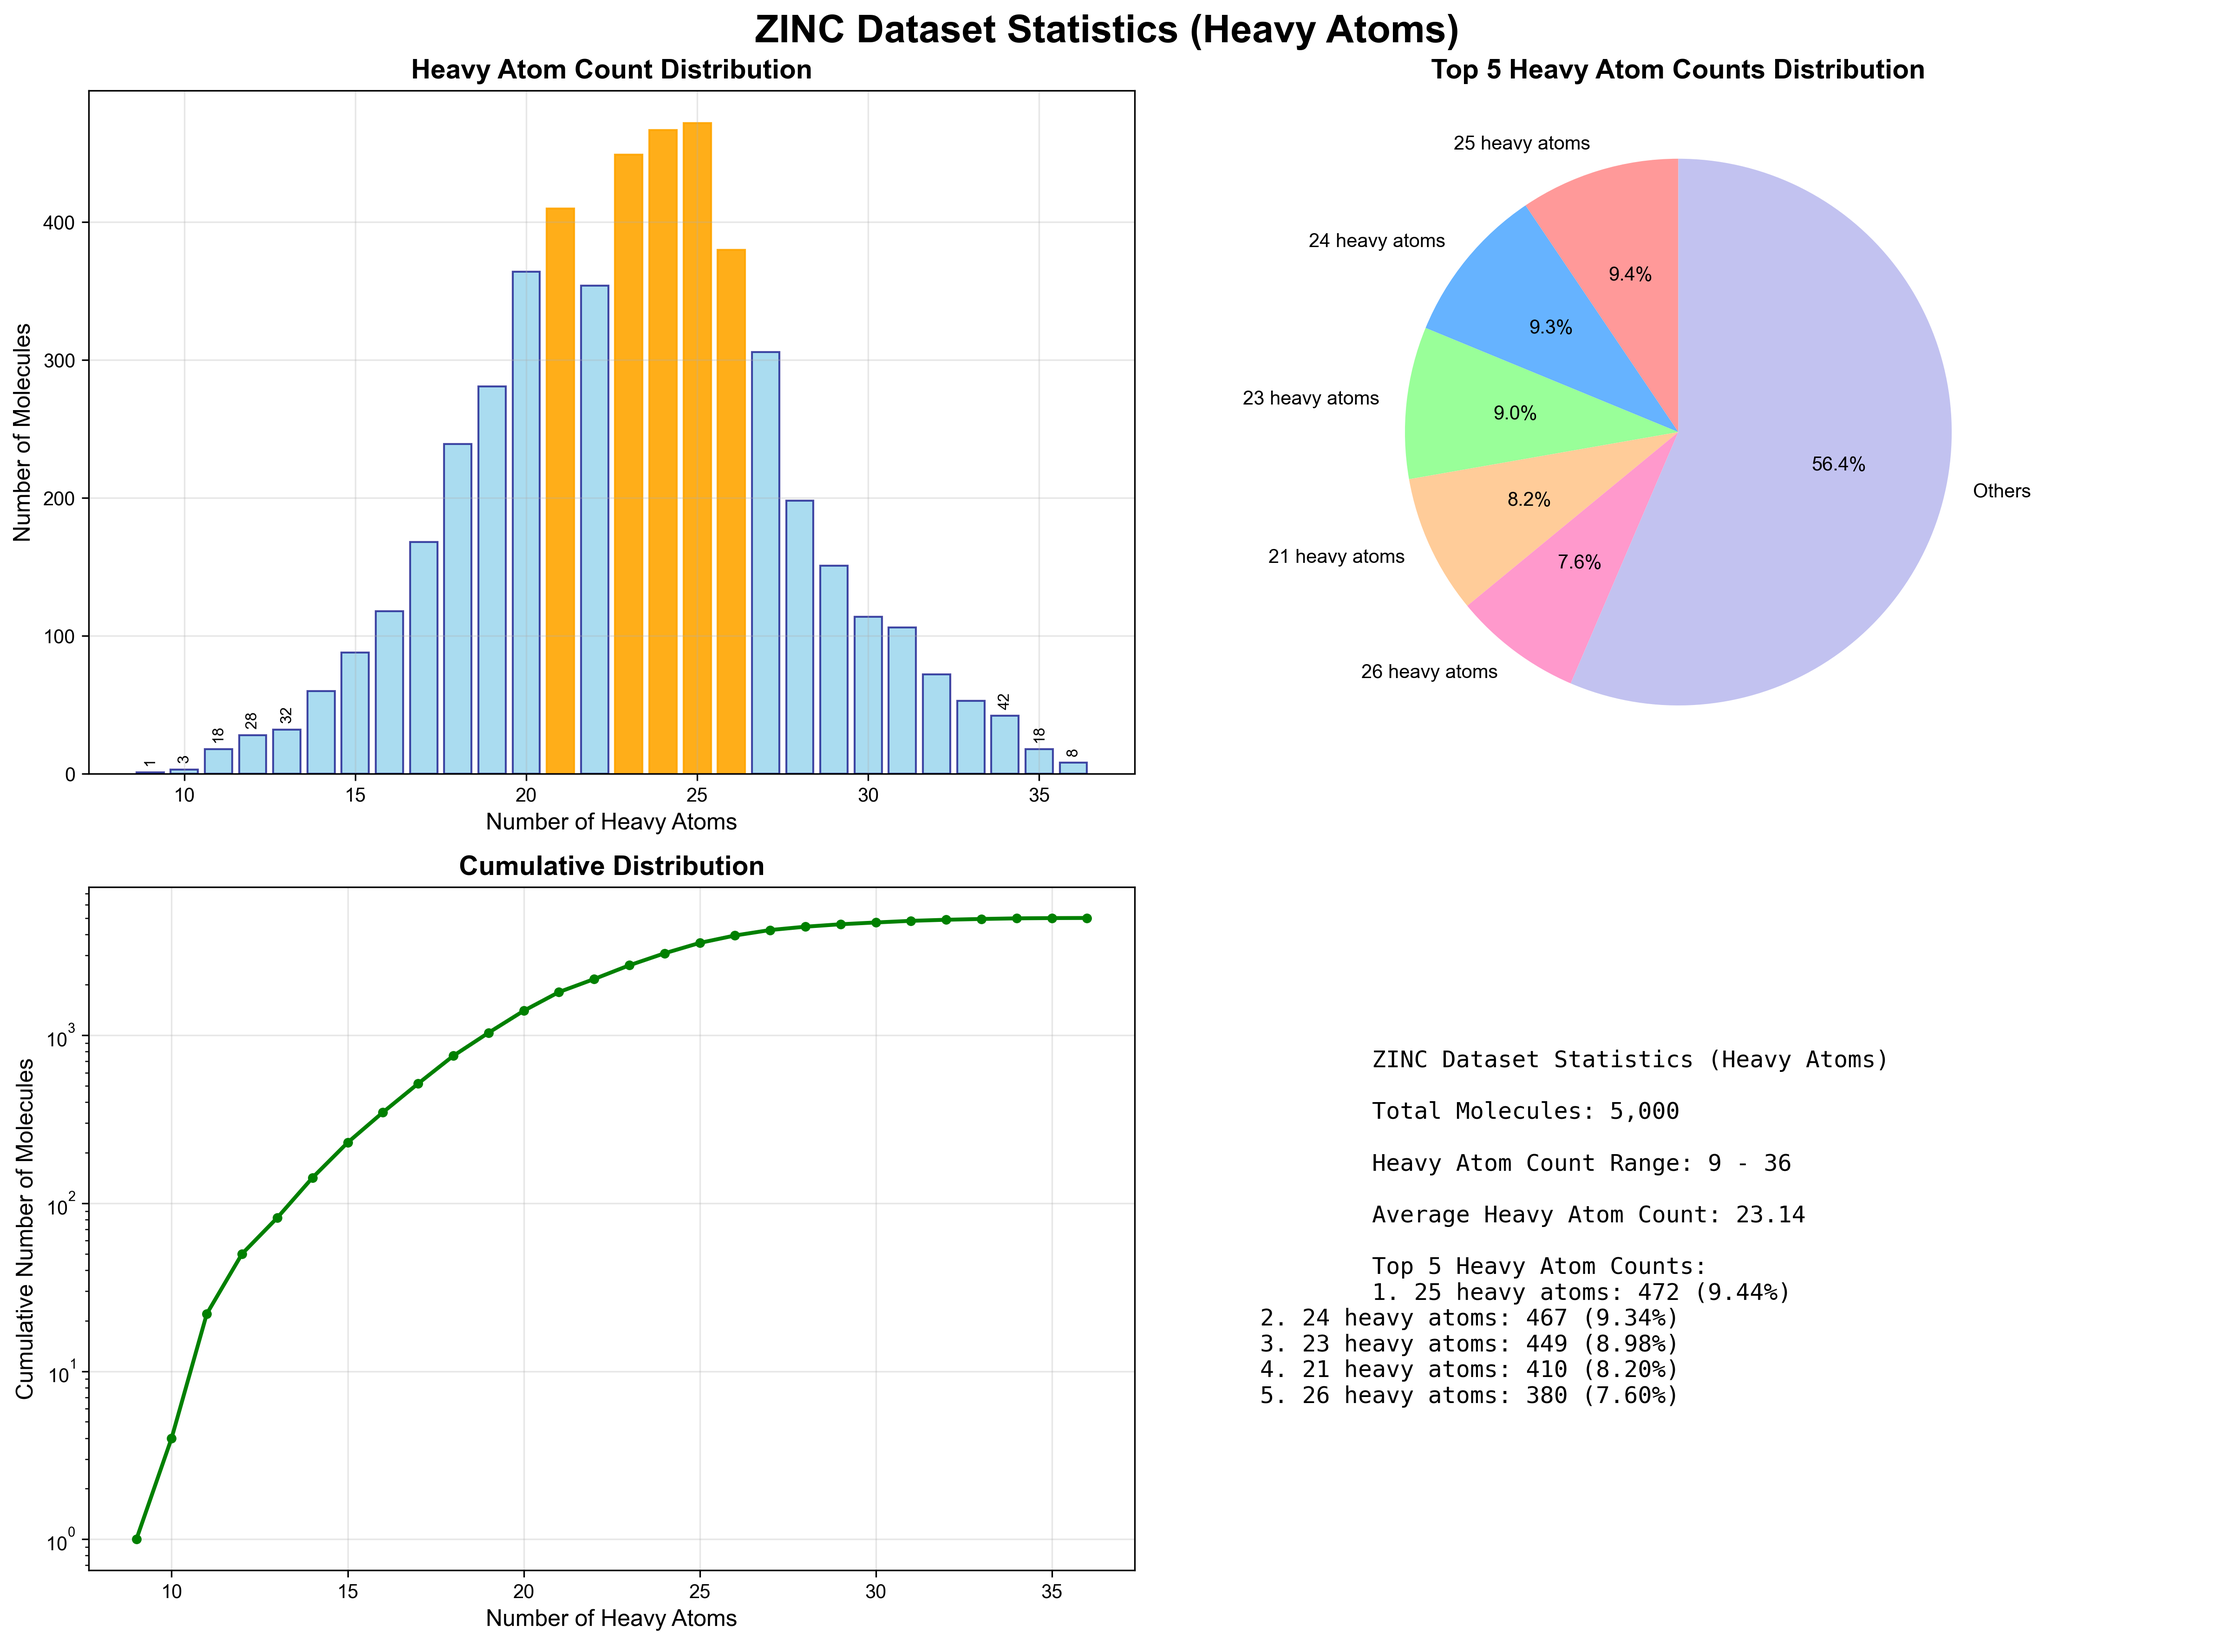
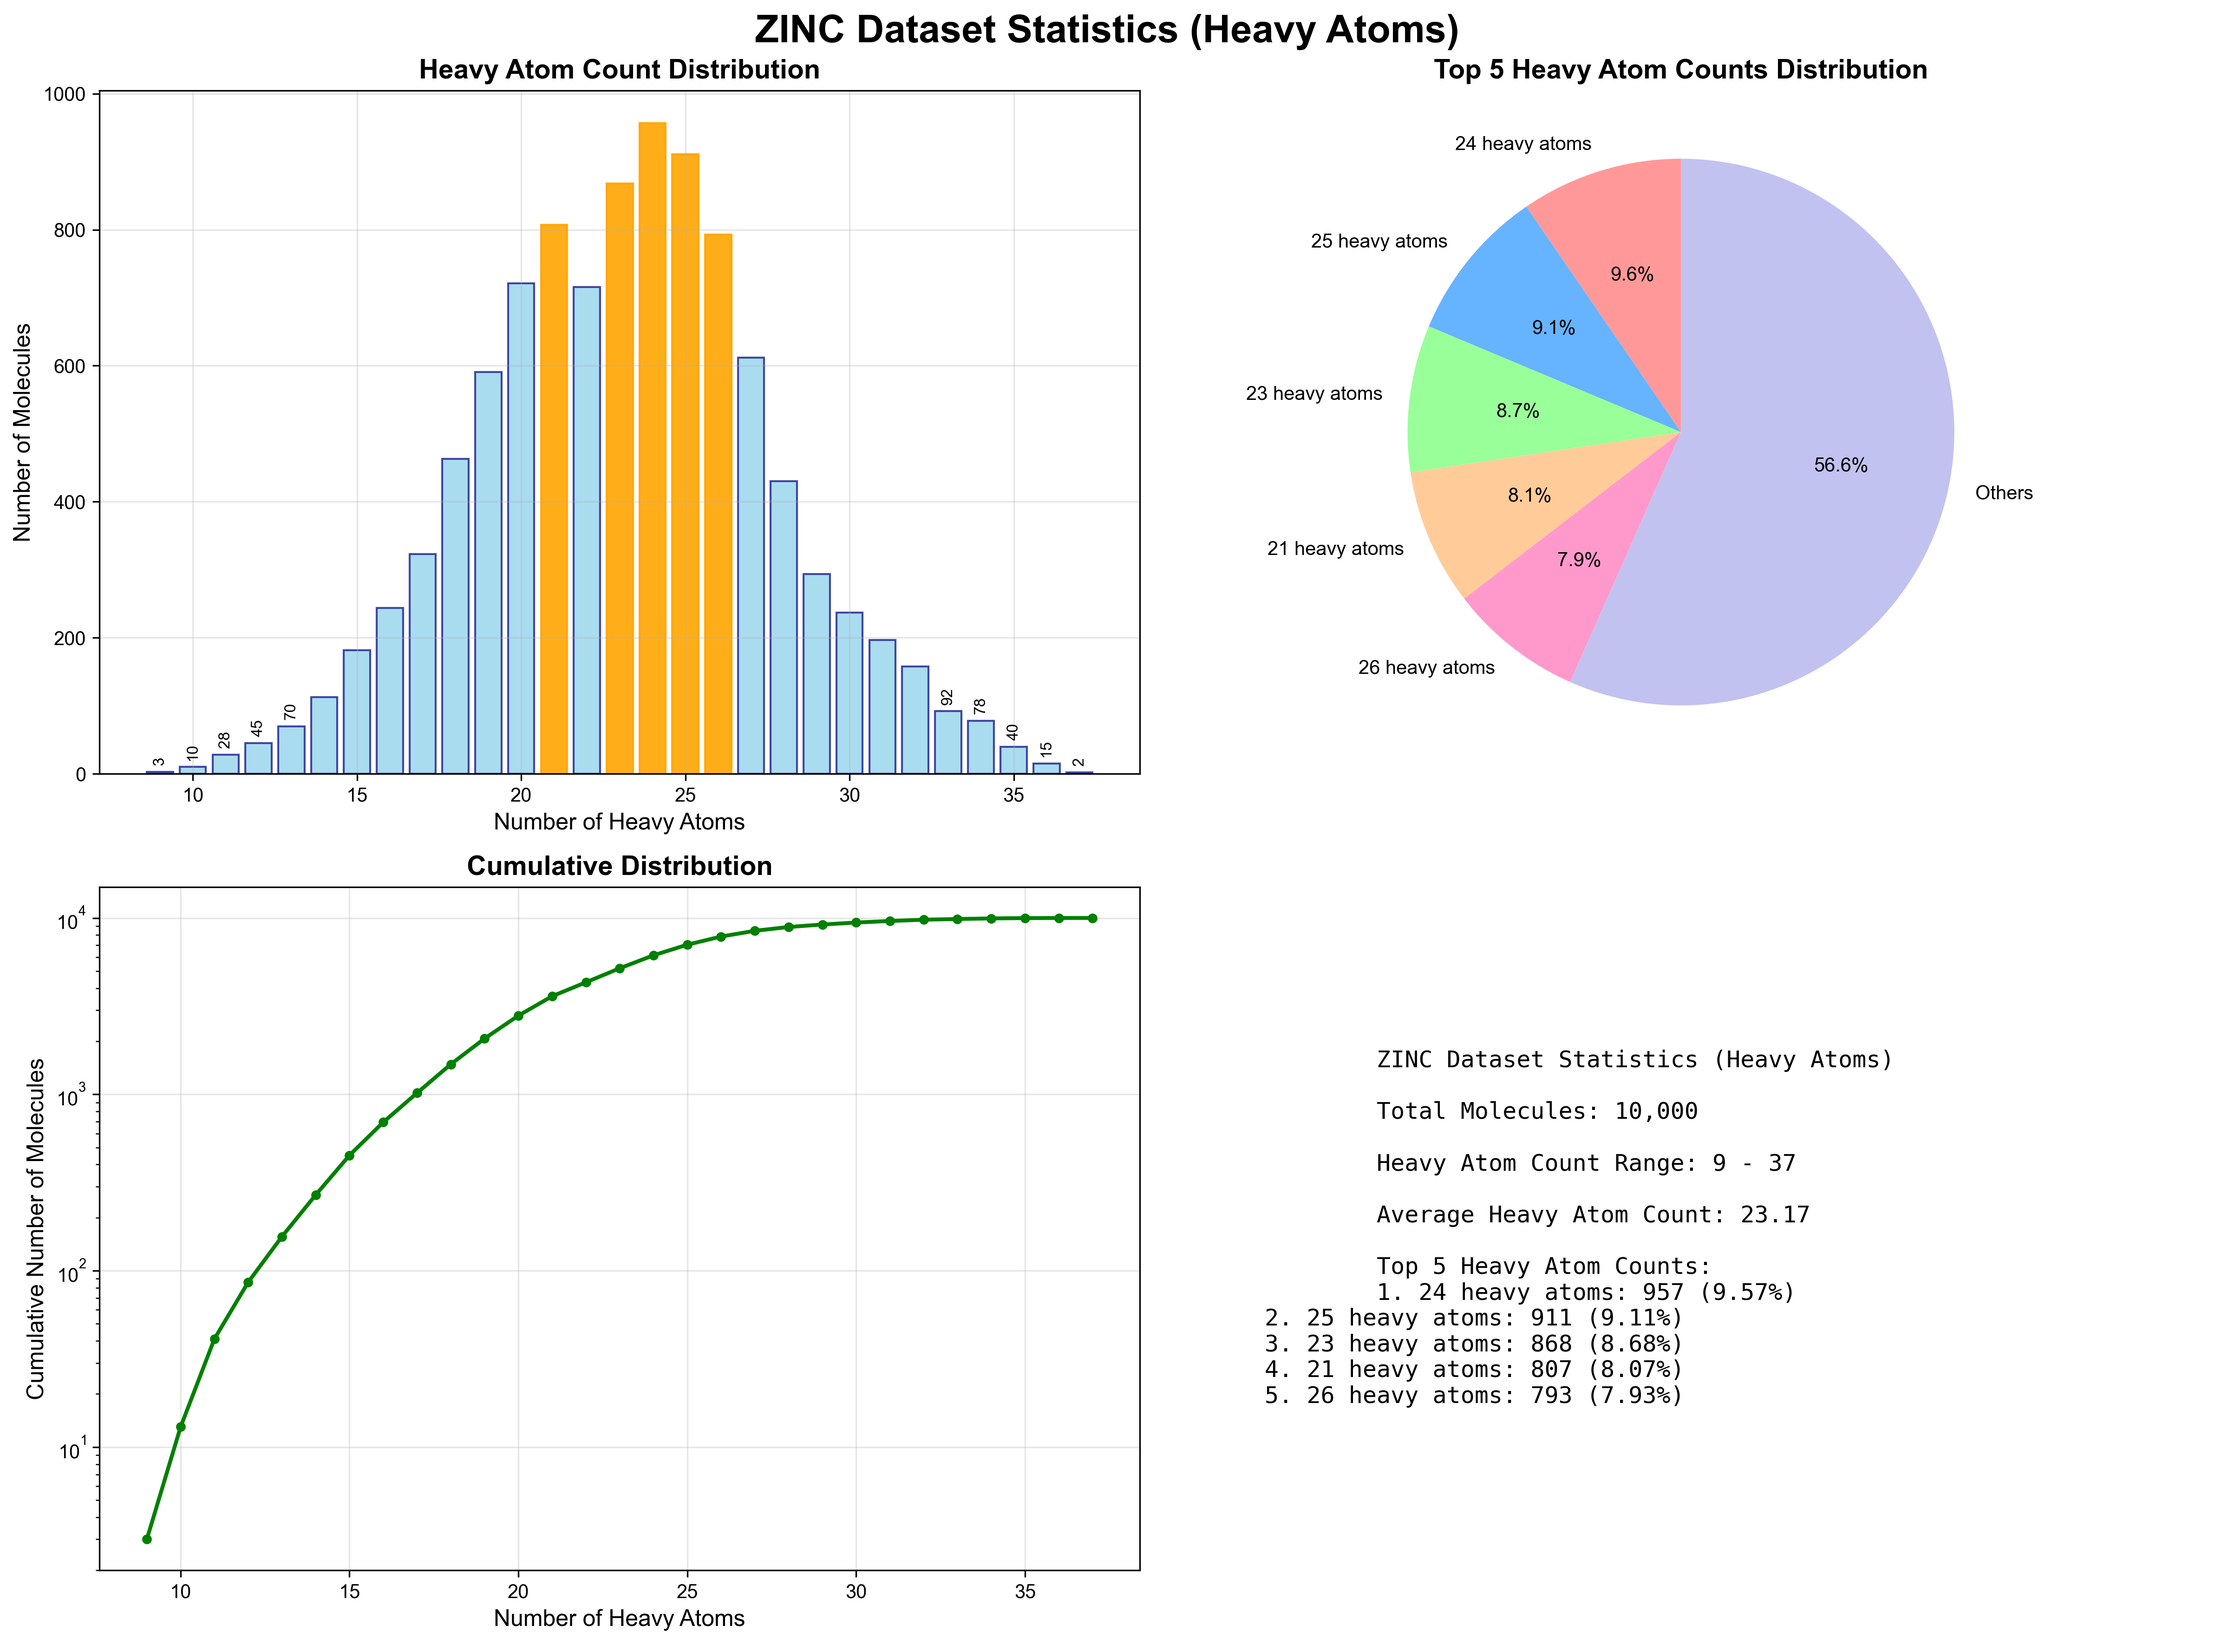
feat: data gen

diff --git a/dataset/update_evolution_types.py b/dataset/update_evolution_types.py
@@ -1,0 +1,97 @@
+import pandas as pd
+import sys
+import os
+from tqdm import tqdm
+
+def update_operation_type(row):
+    """
+    根据操作详情更新操作类型
+    """
+    operation_type = row['operation_type']
+    operation_detail = row['operation_detail']
+    
+    # 只对特定类型进行更新
+    if operation_type == "add" and ("指定手性(" in operation_detail or "指定顺反(" in operation_detail):
+        return "add_stereo"
+    elif operation_type == "del" and ("指定手性(" in operation_detail or "指定顺反(" in operation_detail):
+        return "del_stereo"
+    elif operation_type == "replace":
+        # 检查是否是手性替换操作
+        if ("指定手性(" in operation_detail or "指定顺反(" in operation_detail):
+            # 解析replace操作的详情，检查被替换和替换的内容
+            try:
+                # 提取被替换的部分和替换的部分
+                parts = operation_detail.split("' with '")
+                if len(parts) == 2:
+                    removed_part = parts[0].replace("replace '", "")
+                    added_part = parts[1].replace("'", "")
+                    
+                    # 如果两边都涉及手性信息，则是replace_stereo
+                    if ("指定手性(" in removed_part or "指定顺反(" in removed_part) and \
+                       ("指定手性(" in added_part or "指定顺反(" in added_part):
+                        return "replace_stereo"
+            except:
+                pass
+        return operation_type
+    else:
+        return operation_type
+
+def main():
+    # 设置数据目录
+    data_dir = os.path.join(os.path.dirname(__file__), 'data')
+    input_file = os.path.join(data_dir, 'qm9-evo-pairs-step-1.csv')
+    backup_file = os.path.join(data_dir, 'qm9-evo-pairs-step-1.backup.csv')
+    output_file = os.path.join(data_dir, 'qm9-evo-pairs-step-1.csv')
+    
+    # 检查输入文件是否存在
+    if not os.path.exists(input_file):
+        print(f"错误: 找不到输入文件 {input_file}")
+        sys.exit(1)
+    
+    # 创建备份
+    print("创建备份文件...")
+    import shutil
+    shutil.copy2(input_file, backup_file)
+    print(f"备份文件已创建: {backup_file}")
+    
+    # 读取数据
+    print("读取数据...")
+    df = pd.read_csv(input_file)
+    print(f"总共读取 {len(df)} 行数据")
+    
+    # 显示更新前的操作类型分布
+    print("\n更新前的操作类型分布:")
+    print(df['operation_type'].value_counts())
+    
+    # 更新操作类型
+    print("\n更新操作类型...")
+    # 使用tqdm显示进度条
+    updated_types = []
+    for _, row in tqdm(df.iterrows(), total=len(df), desc="更新操作类型"):
+        updated_types.append(update_operation_type(row))
+    
+    df['operation_type'] = updated_types
+    
+    # 修复to_atom_position列的数据类型问题，确保是整数而不是浮点数
+    if 'to_atom_position' in df.columns:
+        print("\n修复to_atom_position列的数据类型...")
+        # 将to_atom_position列转换为整数类型，空值会保持为NaN
+        df['to_atom_position'] = pd.to_numeric(df['to_atom_position'], errors='coerce').astype('Int64')
+    
+    # 重新排列列的顺序，将operation_detail和evolved_molecule移到最后
+    print("\n调整列顺序...")
+    column_order = [col for col in df.columns if col not in ['operation_detail', 'evolved_molecule']]
+    column_order.extend(['operation_detail', 'evolved_molecule'])
+    df = df[column_order]
+    
+    # 显示更新后的操作类型分布
+    print("\n更新后的操作类型分布:")
+    print(df['operation_type'].value_counts())
+    
+    # 保存更新后的数据
+    print("\n保存更新后的数据...")
+    df.to_csv(output_file, index=False, encoding='utf-8')
+    print(f"数据已保存到 {output_file}")
+
+if __name__ == "__main__":
+    main()

diff --git a/dataset/extract_evolution_pairs.py b/dataset/extract_evolution_pairs.py
@@ -87,6 +87,7 @@ def find_one_step_pairs(heavy_n_df, heavy_m_df, n_atoms, m_atoms, max_pairs=None
                     # 分析进化操作
                     operation = analyze_evolution_operation(path_n, path_m)
                     
+                    # 按照指定顺序创建pair_data字典
                     pair_data = {
                         'smiles_from': smiles_n,
                         'smiles_to': smiles_m,
@@ -96,10 +97,10 @@ def find_one_step_pairs(heavy_n_df, heavy_m_df, n_atoms, m_atoms, max_pairs=None
                         'index_to': heavy_m_df.iloc[j].name,
                         'distance': distance,
                         'operation_type': operation['type'],
-                        'operation_detail': operation['detail'],
-                        'evolved_molecule': operation['evolved_molecule'],
                         'to_atom_symbol': operation['to_atom_symbol'],
-                        'to_atom_position': operation['to_atom_position']
+                        'to_atom_position': operation['to_atom_position'],
+                        'operation_detail': operation['detail'],
+                        'evolved_molecule': operation['evolved_molecule']
                     }
                     
                     pairs.append(pair_data)
@@ -143,12 +144,24 @@ def analyze_evolution_operation(path1, path2):
     if len(added_ops) == 1 and len(removed_ops) == 0:
         operation_type = "add"
         operation_detail = list(added_ops)[0]
+        # 检查是否是添加手性操作
+        if "指定手性(" in operation_detail or "指定顺反(" in operation_detail:
+            operation_type = "add_stereo"
     elif len(removed_ops) == 1 and len(added_ops) == 0:
         operation_type = "del"
         operation_detail = list(removed_ops)[0]
+        # 检查是否是删除手性操作
+        if "指定手性(" in operation_detail or "指定顺反(" in operation_detail:
+            operation_type = "del_stereo"
     elif len(added_ops) == 1 and len(removed_ops) == 1:
         operation_type = "replace"
         operation_detail = f"replace '{list(removed_ops)[0]}' with '{list(added_ops)[0]}'"
+        # 检查是否是替换手性操作
+        removed_op = list(removed_ops)[0]
+        added_op = list(added_ops)[0]
+        if ("指定手性(" in removed_op or "指定顺反(" in removed_op) and \
+           ("指定手性(" in added_op or "指定顺反(" in added_op):
+            operation_type = "replace_stereo"
     elif len(added_ops) > 1 and len(removed_ops) == 0:
         operation_type = "add_multi"
         operation_detail = "; ".join(list(added_ops))
@@ -242,6 +255,11 @@ def save_pairs_to_csv(pairs, output_file):
     existing_columns_to_remove = [col for col in columns_to_remove if col in df.columns]
     if existing_columns_to_remove:
         df = df.drop(columns=existing_columns_to_remove)
+    
+    # 重新排列列的顺序，将operation_detail和evolved_molecule移到最后
+    column_order = [col for col in df.columns if col not in ['operation_detail', 'evolved_molecule']]
+    column_order.extend(['operation_detail', 'evolved_molecule'])
+    df = df[column_order]
     
     # 保存到CSV文件
     df.to_csv(output_file, index=False, encoding='utf-8')
